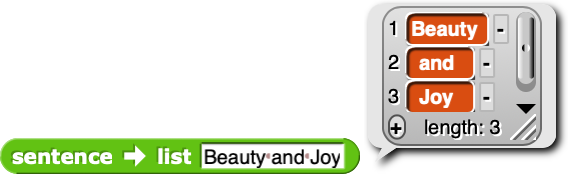
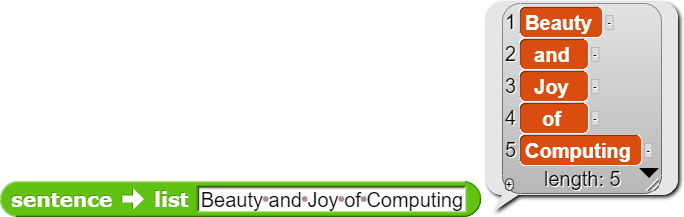
fixed weird mismatch between image and lab text

diff --git a/cur/programming/lists/hyperblocks/hyperblocks.html b/cur/programming/lists/hyperblocks/hyperblocks.html
@@ -1,0 +1,63 @@
+<html>
+
+
+   <head>
+
+      <script src="/bjc-r/llab/loader.js"></script>
+
+      <title> Transforming each item of a list</title>
+
+   <!-- Global site tag (gtag.js) - Google Analytics -->
+<script async src="https://www.googletagmanager.com/gtag/js?id=UA-176402054-1"></script>
+<script>
+  window.dataLayer = window.dataLayer || [];
+  function gtag(){dataLayer.push(arguments);}
+  gtag('js', new Date());
+
+  gtag('config', 'UA-176402054-1');
+</script>
+</head>
+
+
+   <body>
+
+<p><br>In the last activity we made this list of nouns:<br>
+<img border="0" title="giraffe, elephant, pizza, etc." alt="giraffe, elephant, pizza, etc." src="/bjc-r/img/list/hof/nouns.png"/>
+
+</p>Now suppose we'd like to be able to vary our noun phrases by sometimes using one of these nouns in the plural. So we need a way to add the letter &quot;s&quot; to each item of the list. Find the <b>map</b> block near the bottom of the Variables palette and use it this way:<br>
+<img border="0" title="map ((join () (s))) over (nouns)" alt="map ((join () (s))) over (nouns)" src="/bjc-r/img/list/hof/map-join-s.png"/>
+
+<br><br>
+The first input to the <code>map</code> block has a form you haven't seen before this:<br>
+<img border="0" title="the MAP block" alt="the MAP block" src="/bjc-r/img/list/hof/mapblock.png"/>
+
+</p>
+<p>The grey ring means that the input should be a <i>function</i>. What we mean by this is basically the same thing as the <i>f</i>(<i>x</i>)=3<i>x</i>+7 kind of function in algebra, except that it doesn't have to be a numeric function. In this case the function we want is &quot;join the letter 's' after the given word.&quot; When you drag the <code>join</code> block into the <code>map</code> input slot, the grey ring is still visible, to remind you that the input is a function, not the word that you'd get from some particular <code>join</code>ing.
+  </p>
+<p>Instead of using a variable, like the <i>x</i> in <i>f</i>(<i>x</i>), to represent the input to the function, we leave one of <code>join</code>'s input slots as an empty box. This is supposed to remind you of the notation 3&times;&#x2610;+7 (&quot;three times box plus seven&quot;) that you learned for functions in elementary school before you knew about variables.
+
+</p>
+<p><br><b>Try this:</b> Modify your <code>noun phrase</code> block so that half the time it uses a plural noun. Note that, if you use a plural noun, the article has to be &quot;the,&quot; rather than &quot;a.&quot;
+
+</p>
+<p><br>
+  Here are some more examples of using <code>map</code> to compute some function of every item of a list:</p>
+<p><img border="0" title="map 3x+7" alt="map 3x+7" src="/bjc-r/img/list/hof/3x_7.png" /></p>
+<p>
+<img border="0" title="map letter 1 of" alt="map letter 1 of" src="/bjc-r/img/list/hof/ywd.png"/></p>
+<img border="0" title="map x * x" alt="map x * x" src="/bjc-r/img/list/hof/squares.png"/>
+
+<p>In that third example, there are two empty boxes in the function, so it's &#x2610;&times;&#x2610;, which squares each number.
+
+<p><br><b>Try this: <br></b>
+In the last activity we made a list of Beatles:<br>
+<img border="0" title="list (list (John) (Lennon)) (list (Paul) (McCartney)) etc." alt="list (list (John) (Lennon)) (list (Paul) (McCartney)) etc." src="/bjc-r/img/list/hof/Beatles.png"/>
+</p>
+Use <code>map</code> and this list to get a list of just the first names of the Beatles.<br>
+<img border="0" title="John, Paul, George, Ringo" alt="John, Paul, George, Ringo" src="/bjc-r/img/list/hof/jpgr.png"/>
+
+<p><br>
+  A function that, like <code>map</code>, takes another function as an input is called a <i>higher order function. </i>In the next two activities you'll meet two more higher order functions.<br><br>
+
+   </body>
+</html>

diff --git a/cur/programming/lists/hof/composing-higher-order-functions-to-solve-more-complicated-problems.html b/cur/programming/lists/hof/composing-higher-order-functions-to-solve-more-complicated-problems.html
@@ -47,7 +47,7 @@ Don't be confused about which inputs do and don't have rings. It's the square <b
 To translate from a text string to a list of words, you will need to import the <code>sentence->list</code> block by importing the <em>Words and Sentences</em> library. To import the library, click on the file icon in the upper left hand corner of Snap<em>!</em>, select <em>Libraries</em>, and import the <em>Words and Sentences</em> library.  
 <br><img border="0" src="/bjc-r/img/list/hof/words-sentences-lib.png" alt="words sentences lib" title="sentence->list block"/></br>
 <br><img border="0" src="/bjc-r/img/list/hof/stol.png" alt="sentence->list block" title="sentence->list block"/></br>
-<br>As usual, you see only the first three list elements in the speech balloon, but you're told at the bottom that the length of the list is 5, as it should be for the five words in the given phrase.
+<!--<br>As usual, you see only the first three list elements in the speech balloon, but you're told at the bottom that the length of the list is 5, as it should be for the five words in the given phrase.-->>
 
 <p>Once we have the list, we can use the tools we've already built to get a list of the first letters of the long words. What we want, though, is a single word as the reported value. We can use one of the higher order functions to join the letters into a string.
 
